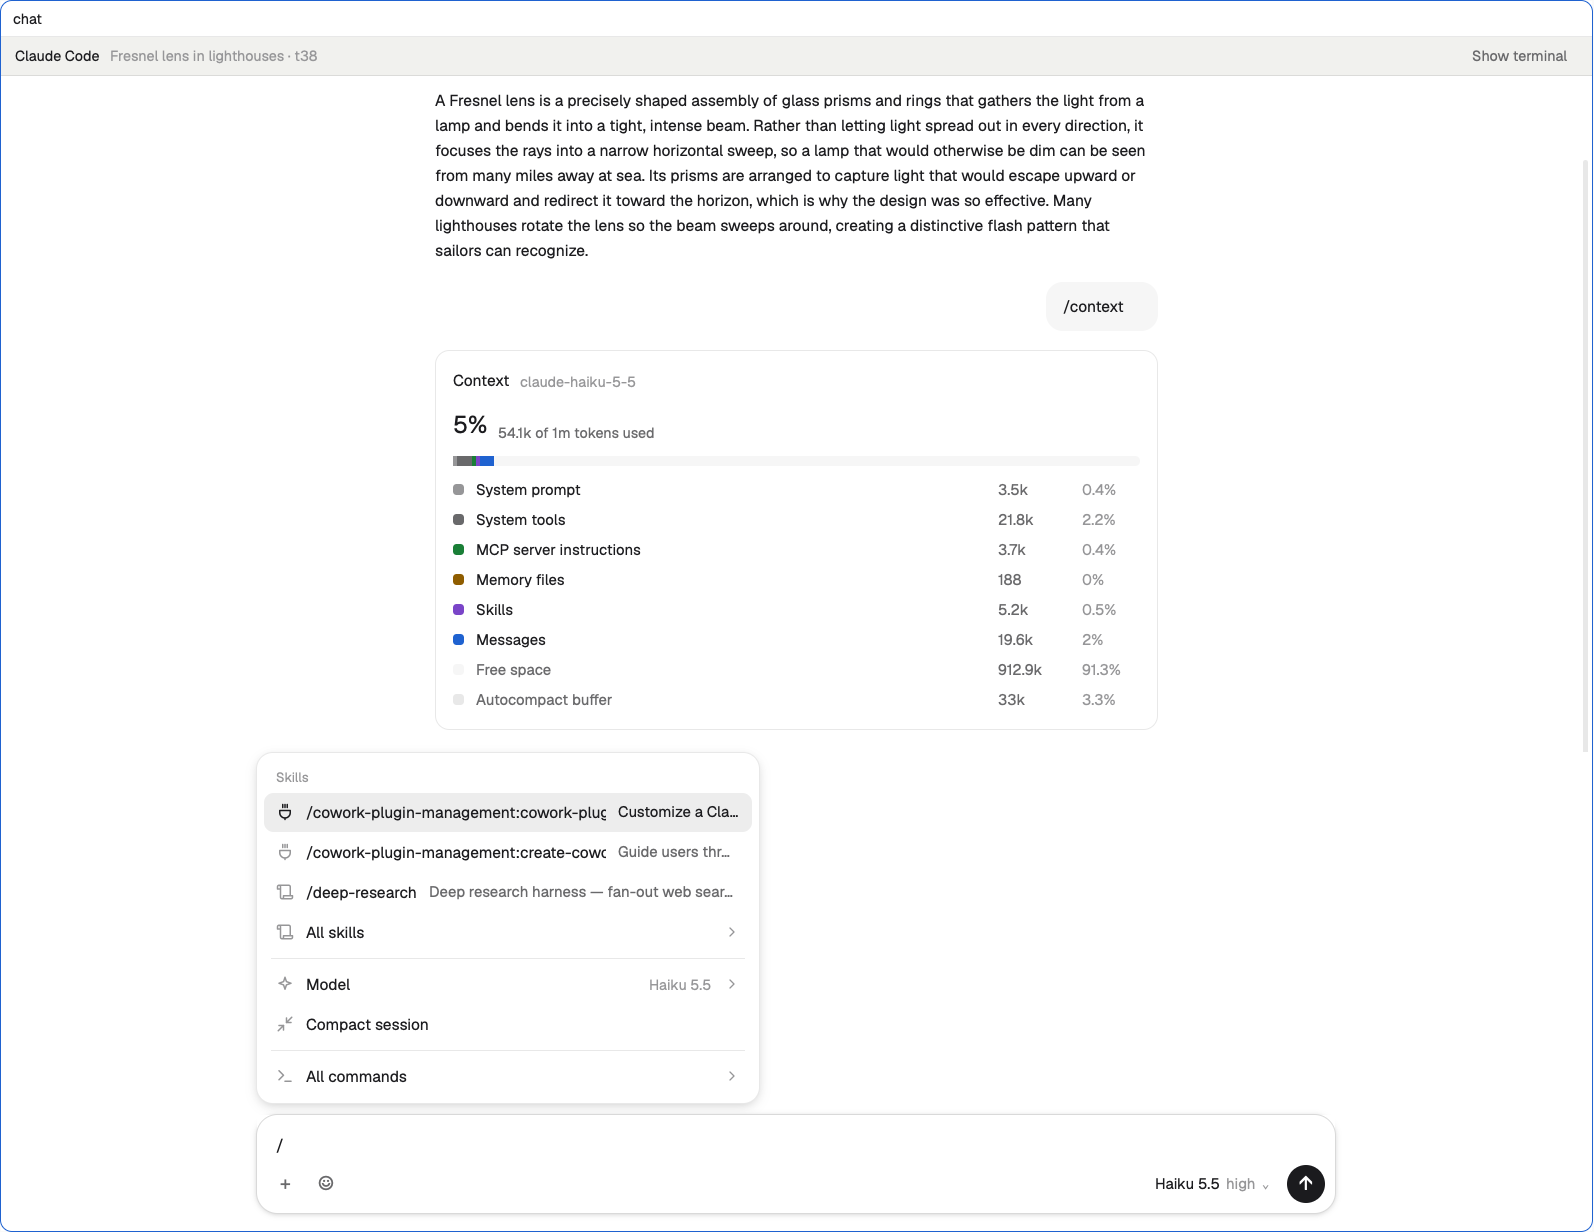
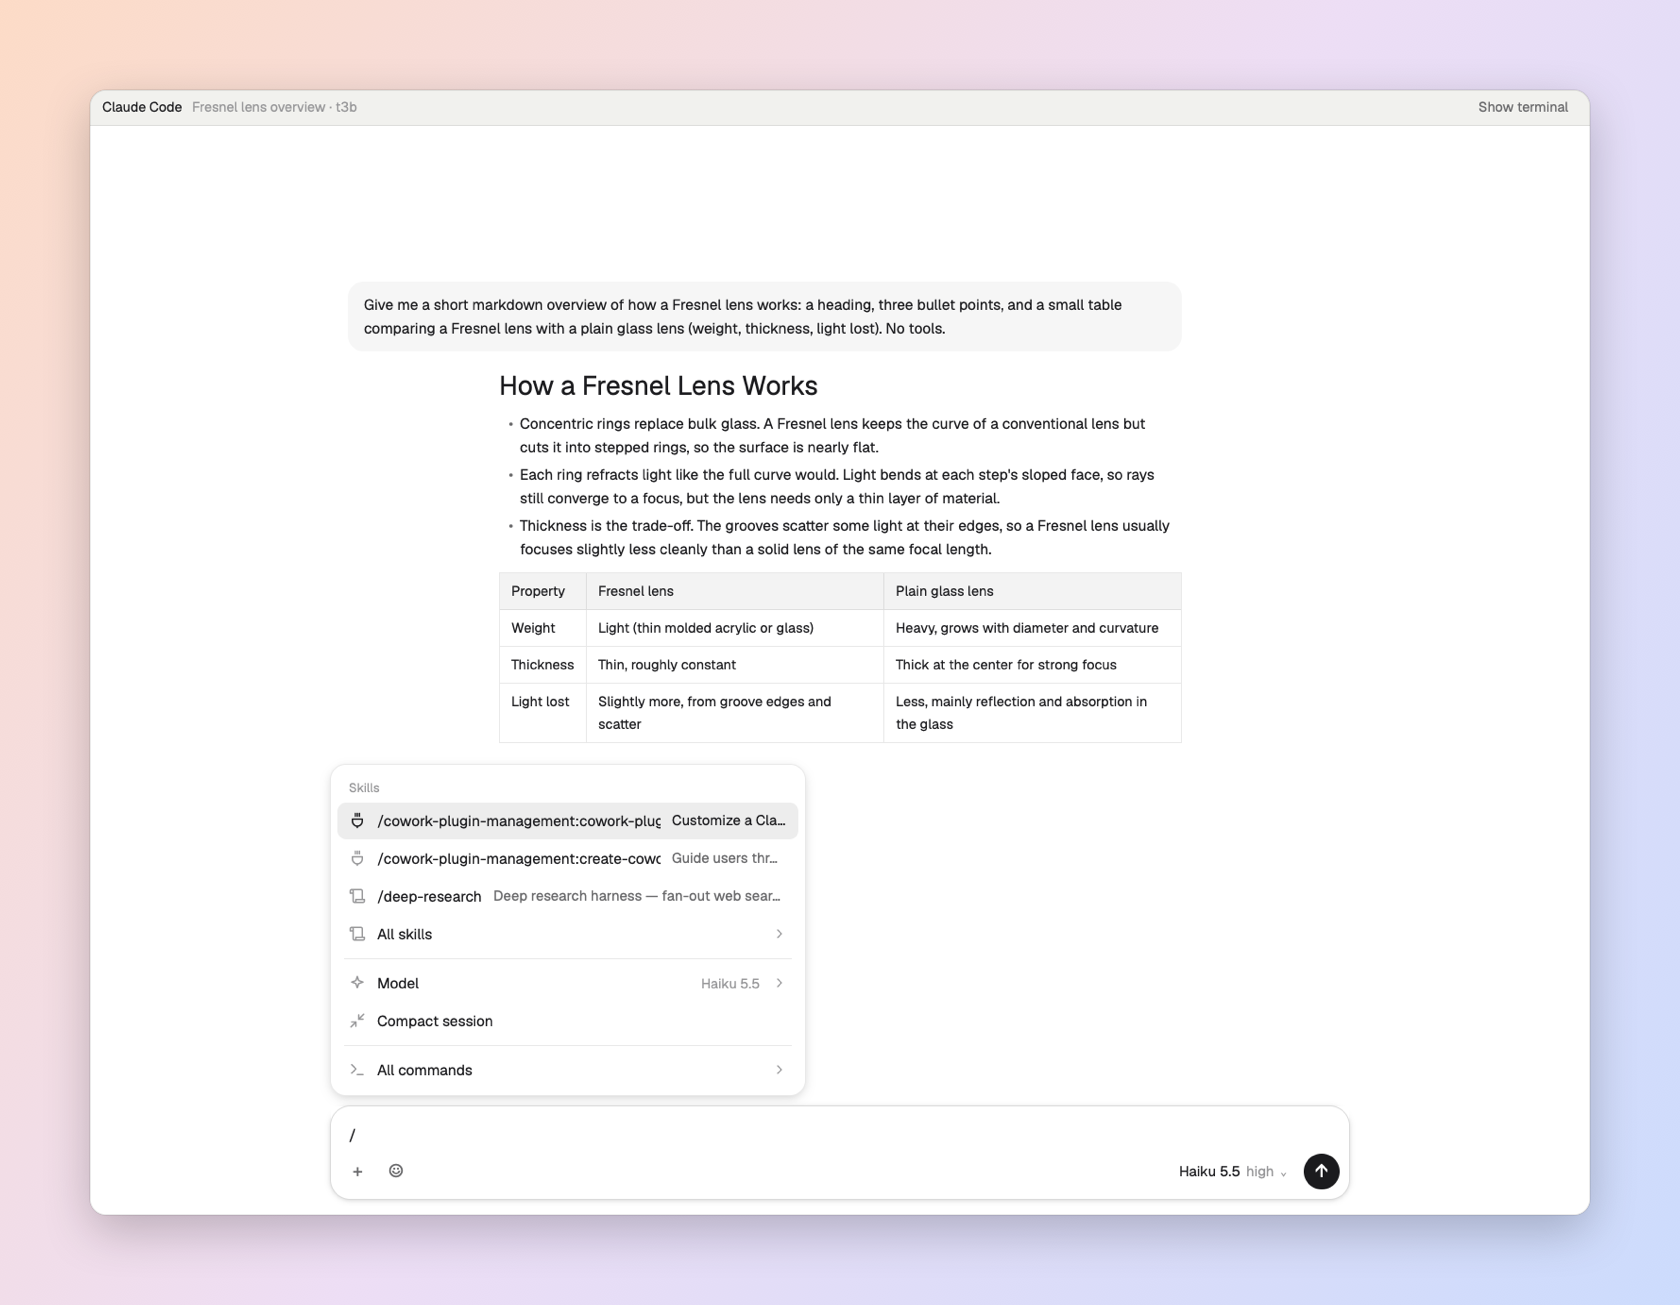
New screenshots

Changed region(s): [[0.0, 0.0, 1.0, 1.0], [0.6763, 0.2468, 0.707, 0.2776]]

diff --git a/README.md b/README.md
@@ -8,13 +8,14 @@ A chat window for [Herdr](https://herdr.dev) that sits over your Claude Code and
 - replies that stream as they're written;
 - Slack-style `:emoji` autocomplete.
 
-![The chat with its command menu](preview.png)
+![The chat with its / command menu](preview.png)
 
 | | |
 |---|---|
-| ![Command search](screenshots/2-command-search.png) | ![Side chat](screenshots/3-side-chat.png) |
-| ![Context card](screenshots/4-context-card.png) | ![A terminal picker inside the chat](screenshots/5-terminal-picker.png) |
-| ![Emoji autocomplete](screenshots/6-emoji.png) | ![The / menu](screenshots/1-command-menu.png) |
+| ![Searching commands](screenshots/command-search.png)<br>**Commands** with their descriptions, arguments and aliases | ![Side chat](screenshots/side-chat.png)<br>**Side chat**: ask without interrupting the agent |
+| ![A command running](screenshots/live-command.png)<br>**Live progress**: the command running now and its output | ![Context card](screenshots/context-card.png)<br>**Cards** for context, usage, MCP servers, memory |
+| ![A terminal picker in the chat](screenshots/terminal-picker.png)<br>**Terminal pickers** as buttons, right in the chat | ![Model picker](screenshots/model-picker.png)<br>**Pick, don't type**: models, sessions, permission modes |
+| ![Chat and terminal side by side](screenshots/chat-and-terminal.png)<br>**The terminal** is one click away | ![Emoji](screenshots/emoji.png)<br>**`:emoji`** autocomplete, like Slack |
 
 ## What the chat does that the terminal can't
 
